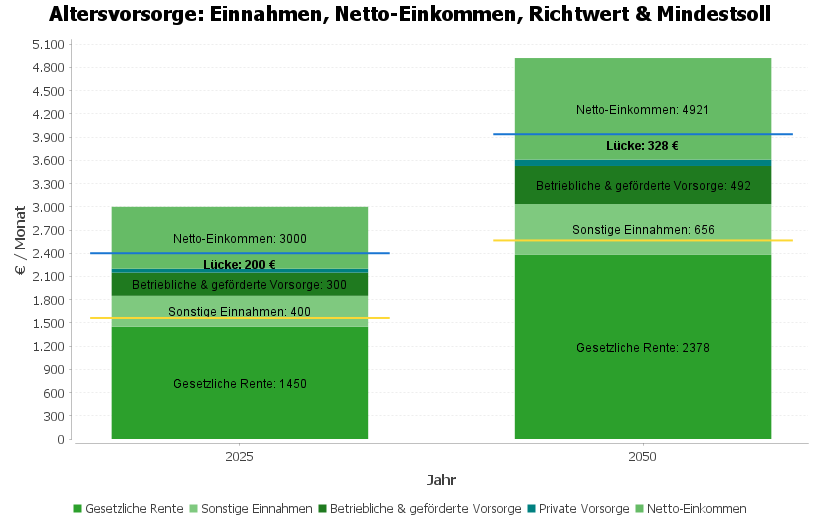
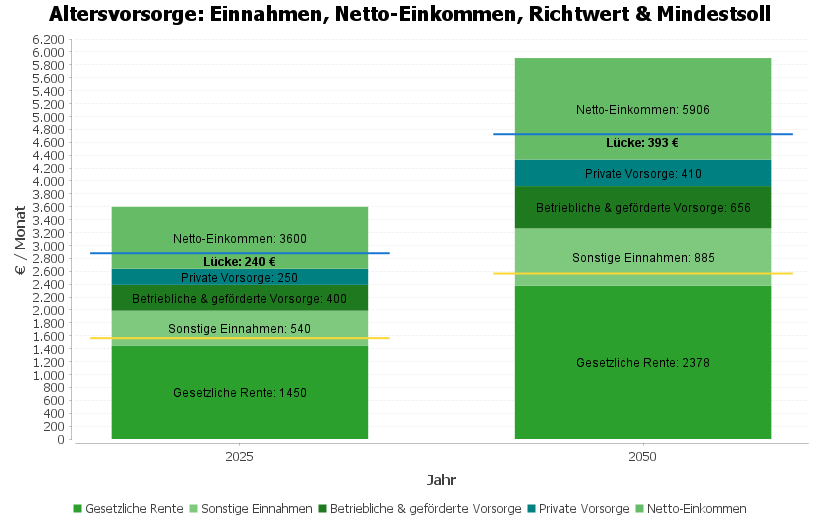
Update income values, remove comments, and refine visuals
Updates income parameters in the retirement analysis model to reflect revised values. Cleans up redundant comments for better code clarity and reduces visual clutter. Adjusts chart tick unit and annotation positions to improve visual representation and readability.

Simplifies logic and formatting in helper classes for consistency. Ensures the generated output aligns with updated requirements and improves maintainability.

diff --git a/src/main/java/com/dj/retirementanalysis/helper/ChartPngBuilder.java b/src/main/java/com/dj/retirementanalysis/helper/ChartPngBuilder.java
@@ -22,7 +22,7 @@ import java.io.File;
 public class ChartPngBuilder {
 
     public static void buildPng(
-            // Eingaben aus deinem Modell
+
             double gesetzlich25, double sonstige25, double betrieblich25, double privat25,
             double gesetzlich50, double sonstige50, double betrieblich50, double privat50,
             double netto25, double netto50,
@@ -31,11 +31,9 @@ public class ChartPngBuilder {
             File outFile
     ) throws Exception {
 
-        // Kategorien = Jahre (wie in deiner JS-Variante)
         String J2025 = "2025";
         String J2050 = "2050";
 
-        // Stacked-Dataset (Komponenten)
         DefaultCategoryDataset bars = new DefaultCategoryDataset();
         bars.addValue(gesetzlich25, "Gesetzliche Rente", J2025);
         bars.addValue(sonstige25,   "Sonstige Einnahmen", J2025);
@@ -47,7 +45,6 @@ public class ChartPngBuilder {
         bars.addValue(betrieblich50,"Betriebliche & geförderte Vorsorge", J2050);
         bars.addValue(privat50,     "Private Vorsorge", J2050);
 
-        // Netto (damit Gesamthöhe = Netto)
         double sum25 = gesetzlich25 + sonstige25 + betrieblich25 + privat25;
         double sum50 = gesetzlich50 + sonstige50 + betrieblich50 + privat50;
         double cap25 = Math.max(0, netto25 - sum25);
@@ -55,7 +52,6 @@ public class ChartPngBuilder {
         bars.addValue(cap25, "Netto-Einkommen", J2025);
         bars.addValue(cap50, "Netto-Einkommen", J2050);
 
-        // Basis-Chart
         JFreeChart chart = ChartFactory.createStackedBarChart(
                 "Altersvorsorge: Einnahmen, Netto-Einkommen, Richtwert & Mindestsoll",
                 "Jahr",
@@ -63,15 +59,12 @@ public class ChartPngBuilder {
                 bars
         );
 
-        // Plot/Renderer
         CategoryPlot plot = chart.getCategoryPlot();
         StackedBarRenderer r = (StackedBarRenderer) plot.getRenderer();
         r.setBarPainter(new org.jfree.chart.renderer.category.StandardBarPainter()); // flat
         r.setShadowVisible(false);
-        r.setDefaultItemLabelsVisible(false); // erstmal ohne Beschriftungen
+        r.setDefaultItemLabelsVisible(false);
         r.setDrawBarOutline(false);
-
-        // === HIER: Labels aktivieren ===
 
         double total2025 = sum25 + cap25;
         double total2050 = sum50 + cap50;
@@ -87,52 +80,44 @@ public class ChartPngBuilder {
                 )
         );
 
-        // Farben wie in deiner JS-Lösung (Grün-Töne)
         r.setSeriesPaint(bars.getRowIndex("Gesetzliche Rente"), new Color(44, 160, 44));
         r.setSeriesPaint(bars.getRowIndex("Sonstige Einnahmen"), new Color(127, 201, 127));
         r.setSeriesPaint(bars.getRowIndex("Betriebliche & geförderte Vorsorge"), new Color(31, 122, 31));
         r.setSeriesPaint(bars.getRowIndex("Private Vorsorge"), new Color(0, 128, 128));
         r.setSeriesPaint(bars.getRowIndex("Netto-Einkommen"), new Color(102, 187, 102));
 
-        // Achse: 100er Schritte
         NumberAxis yAxis = (NumberAxis) plot.getRangeAxis();
         yAxis.setAutoRangeIncludesZero(true);
-        yAxis.setTickUnit(new org.jfree.chart.axis.NumberTickUnit(300));
+        yAxis.setTickUnit(new org.jfree.chart.axis.NumberTickUnit(200));
         yAxis.setNumberFormatOverride(new java.text.DecimalFormat("#,##0"));
 
-        // Optik
         plot.setInsets(new RectangleInsets(8, 8, 8, 8));
         plot.setOutlineVisible(false);
         plot.setBackgroundPaint(Color.WHITE);
         plot.setRangeGridlinePaint(new Color(220, 220, 220));
 
-        // --- Referenz-Linien: kurze Segmente pro Jahr (wie in JS) ---
         BasicStroke solid2 = new BasicStroke(2f);
 
-        // Blaue Linie = Richtwert
         plot.addAnnotation(new CategoryShortLineAnnotation(J2025, richt25, new Color(25,118,210), solid2, 1.16));
         plot.addAnnotation(new CategoryShortLineAnnotation(J2050, richt50, new Color(25,118,210), solid2, 1.16));
 
-        // Gelbe Linie = Mindestsoll (DIN 77230)
         plot.addAnnotation(new CategoryShortLineAnnotation(J2025, mind25, new Color(253,216,53), solid2, 1.16));
         plot.addAnnotation(new CategoryShortLineAnnotation(J2050, mind50, new Color(253,216,53), solid2, 1.16));
 
-        // Gap-Texte unterhalb der blauen Linie
         String gap2025Label = "Lücke: " + (int)(richt25 - sum25) + " €";
         CategoryTextAnnotation gapAnno2025 =
-                new CategoryTextAnnotation(gap2025Label, J2025, richt25 - 30); // 30px unter der Linie
+                new CategoryTextAnnotation(gap2025Label, J2025, richt25 - 1);
         gapAnno2025.setFont(new Font("SansSerif", Font.BOLD, 12));
         gapAnno2025.setTextAnchor(TextAnchor.TOP_CENTER);
         plot.addAnnotation(gapAnno2025);
 
         String gap2050Label = "Lücke: " + (int)(richt50 - sum50) + " €";
         CategoryTextAnnotation gapAnno2050 =
-                new CategoryTextAnnotation(gap2050Label, J2050, richt50 - 30);
+                new CategoryTextAnnotation(gap2050Label, J2050, richt50 - 1);
         gapAnno2050.setFont(new Font("SansSerif", Font.BOLD, 12));
         gapAnno2050.setTextAnchor(TextAnchor.TOP_CENTER);
         plot.addAnnotation(gapAnno2050);
 
-        // PNG schreiben
         ChartUtils.saveChartAsPNG(outFile, chart, 820, 520);
     }
 }

diff --git a/src/main/java/com/dj/retirementanalysis/controller/RetirementAnalysisController.java b/src/main/java/com/dj/retirementanalysis/controller/RetirementAnalysisController.java
@@ -27,11 +27,11 @@ public class RetirementAnalysisController {
     public RetirementAnalysisController() {
         this.analysis = new RetirementAnalysis(
                 2025, 2050,
-                4000,   // Brutto pro Monat
+                4800,   // Brutto pro Monat
                 1450,   // gesetzliche Rente
-                400,    // sonstige Einnahmen
-                300,    // betriebliche Vorsorge
-                50      // private Vorsorge
+                540,    // sonstige Einnahmen
+                400,    // betriebliche Vorsorge
+                250      // private Vorsorge
         );
         this.analysis.calculateAll(12.41, 8, 21);
     }
@@ -39,7 +39,6 @@ public class RetirementAnalysisController {
     @GetMapping("/analysis")
     public String getAnalysis(Model model) throws Exception {
 
-        // Beispielwerte aus deinem Modell (hier nur demonstrativ)
         File out = new File("src/main/resources/static/chart.png");
         ChartPngBuilder.buildPng(
                 analysis.getStatutoryPension(), analysis.getOtherIncome(), analysis.getOccupationalPension(), analysis.getPrivatePension(),
@@ -60,17 +59,14 @@ public class RetirementAnalysisController {
     @GetMapping("/analysis/pdf")
     public void getAnalysisPdf(HttpServletResponse response) throws Exception {
 
-        // Modell wie bei der Browseransicht
         Map<String, Object> model = new HashMap<>();
         model.put("analysis", analysis);
 
-        // FTL-Template laden und rendern
         Template template = freemarkerConfig.getTemplate("retirementanalysis.ftl");
         StringWriter stringWriter = new StringWriter();
         template.process(model, stringWriter);
         String html = stringWriter.toString();
 
-        // PDF im Browser anzeigen
         response.setContentType("application/pdf");
         response.setHeader("Content-Disposition", "inline; filename=auswertung_vorsorge.pdf");
 
@@ -78,7 +74,6 @@ public class RetirementAnalysisController {
             PdfRendererBuilder builder = new PdfRendererBuilder();
             builder.useFastMode();
 
-            // Base-URL für Bilder und CSS
             String baseUrl = new File("src/main/resources/static/").toURI().toURL().toString();
             builder.withHtmlContent(html, baseUrl);
 

diff --git a/src/main/java/com/dj/retirementanalysis/helper/CategoryShortLineAnnotation.java b/src/main/java/com/dj/retirementanalysis/helper/CategoryShortLineAnnotation.java
@@ -10,13 +10,12 @@ import org.jfree.data.category.CategoryDataset;
 import java.awt.*;
 import java.awt.geom.Rectangle2D;
 
-// Kleine Annotation-Klasse für "kurze Linie im jeweiligen Jahr"
 public class CategoryShortLineAnnotation implements CategoryAnnotation {
     private final Comparable<?> category;
     private final double y;
     private final Paint paint;
     private final Stroke stroke;
-    // Anteil der Kategorienbreite (0..1), z. B. 0.85 = 85% der Breite
+
     private final double widthFraction;
 
     public CategoryShortLineAnnotation(Comparable<?> category, double y,

diff --git a/src/main/java/com/dj/retirementanalysis/helper/NameValueLabelGenerator.java b/src/main/java/com/dj/retirementanalysis/helper/NameValueLabelGenerator.java
@@ -29,7 +29,6 @@ public class NameValueLabelGenerator implements CategoryItemLabelGenerator {
         String name = dataset.getRowKey(row).toString();
         Number value = dataset.getValue(row, column);
 
-        // Für Netto-Einkommen Sonderlogik
         if ("Netto-Einkommen".equals(name)) {
             if ("2025".equals(dataset.getColumnKey(column).toString())) {
                 return "Netto-Einkommen: " + (int) total2025;
